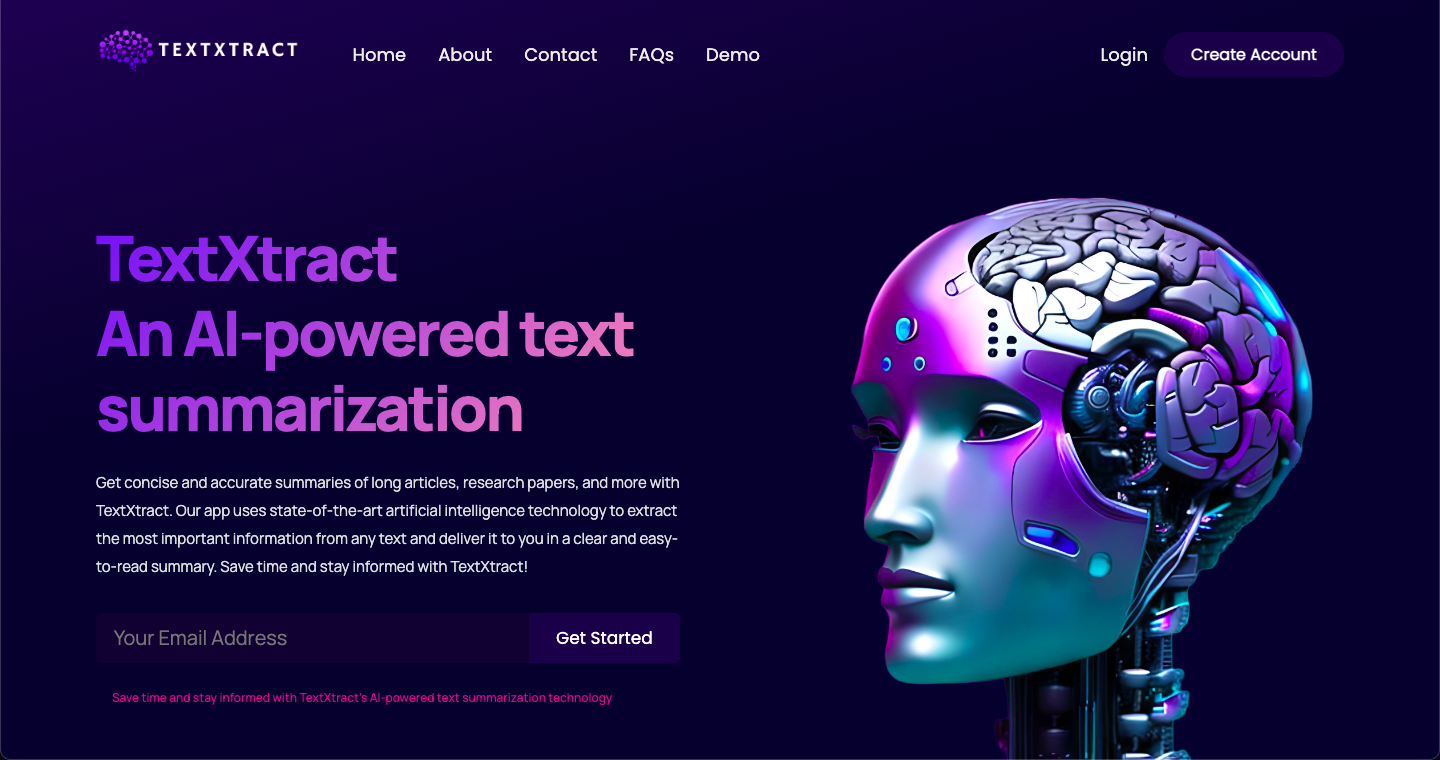
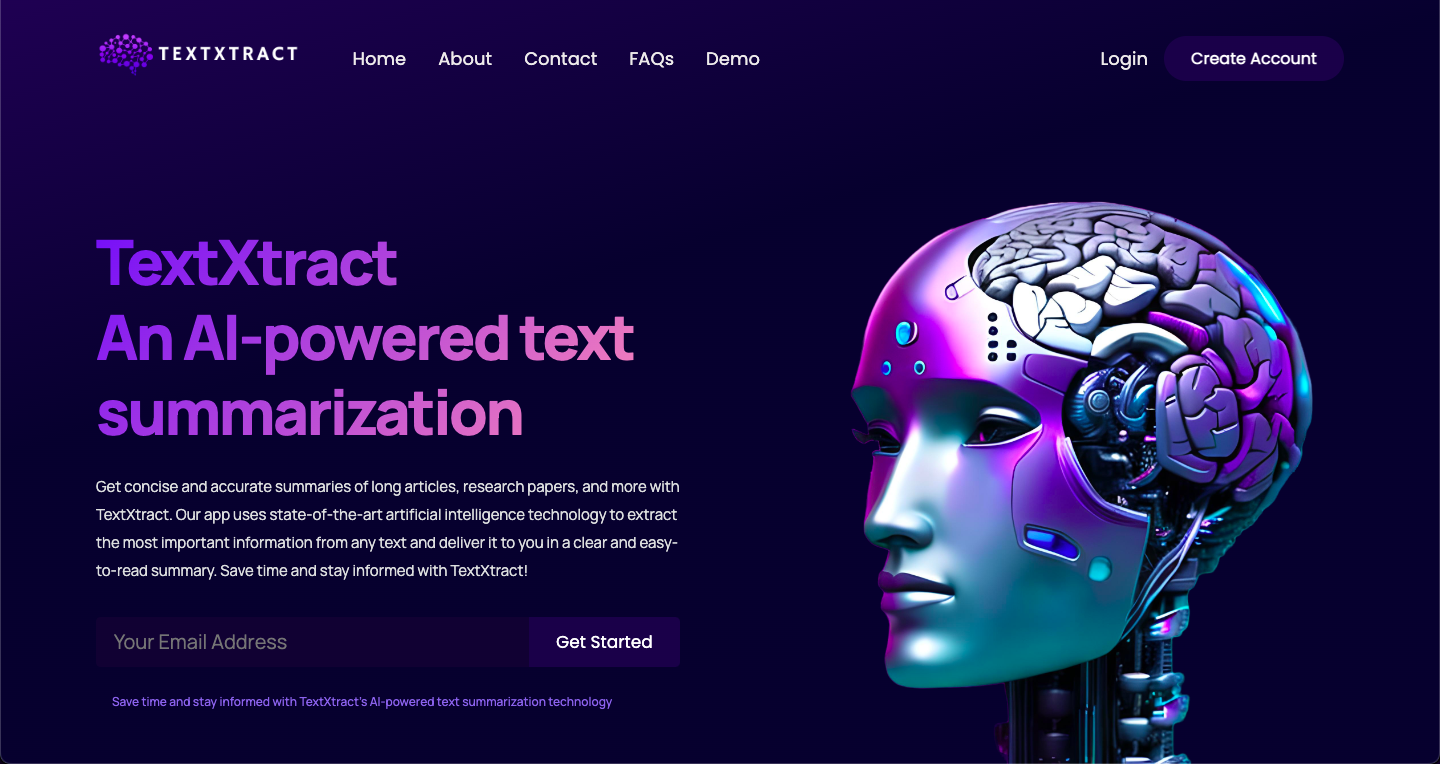
changed the subtext color due to visibility issues

diff --git a/src/index.css b/src/index.css
@@ -20,7 +20,7 @@
   --color-bg: rgba(3, 1, 44, 1);
   --color-blog: #042c54;
   --color-text: #dcdede;
-  --color-subtext: #ce3a8b;
+  --color-subtext: #8373e7;
   --color-footer: linear-gradient(
     11deg,
     rgba(18, 9, 76, 1) 0%,

diff --git a/README.md b/README.md
@@ -4,7 +4,7 @@ TextXtract is a web application that uses GPT-based text summarization to genera
 
 ## Screenshot
 
-![Alt text](/src/TextXtract.png)
+![Alt text](/src/Textxtract.png)
 
 ## Features
 
